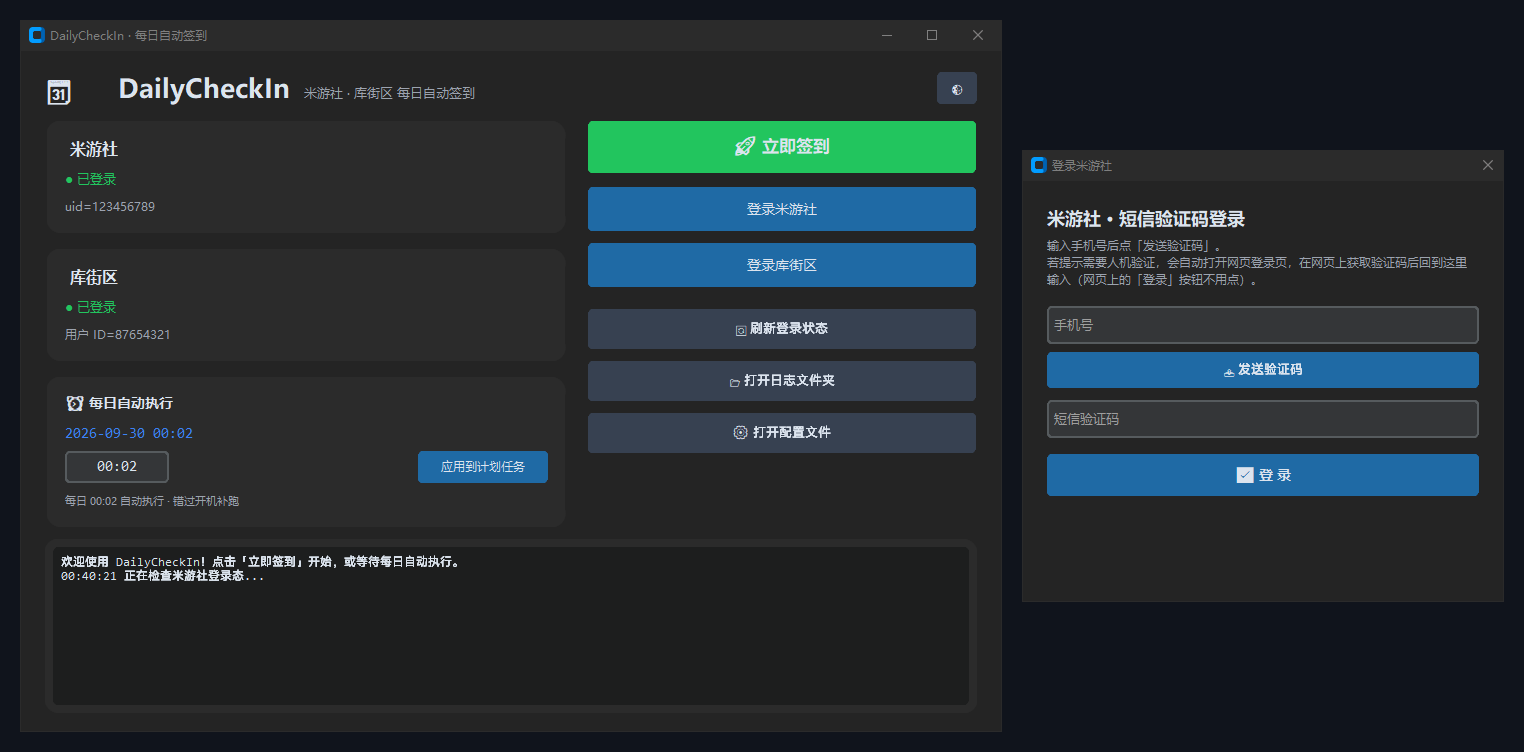
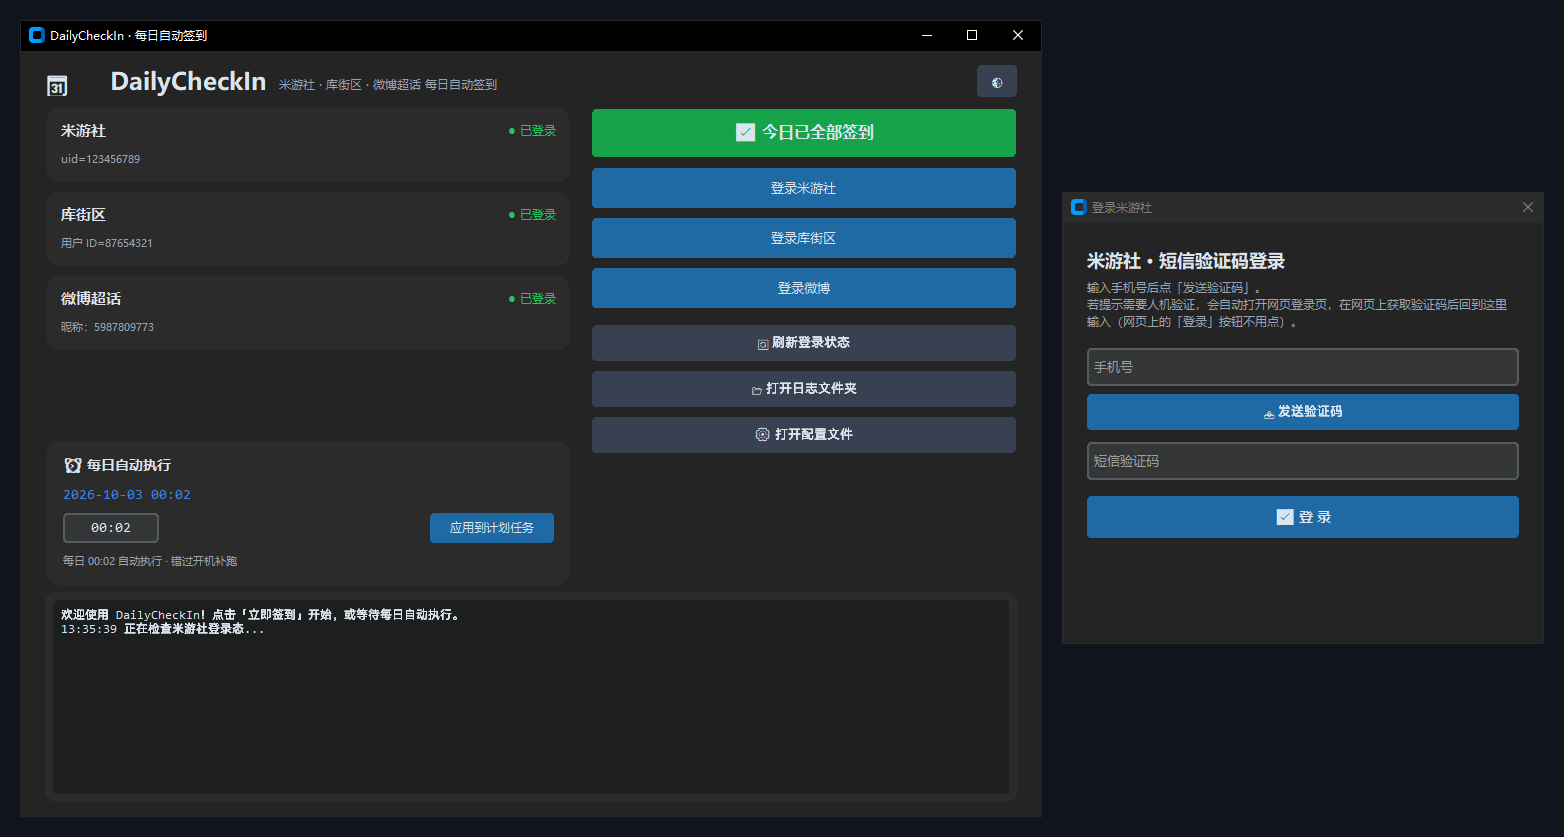
fix(gui): 重构布局，修复默认尺寸下日志区不可见
- 状态卡改紧凑单行式（标题+状态点同行），高度约减半
- 日志区固定 210px 高度，任何窗口尺寸下都完整可见
- 默认窗口加大到 1020x765，修复陈旧的网格行权重
- 同步更新 README 界面预览图

diff --git a/gui.py b/gui.py
@@ -277,8 +277,8 @@ class App(ctk.CTk):
     def __init__(self):
         super().__init__()
         self.title("DailyCheckIn · 每日自动签到")
-        self.geometry("980x680")
-        self.minsize(860, 600)
+        self.geometry("1020x765")
+        self.minsize(880, 700)
 
         self.log_queue = queue.Queue()
         self.ui_queue = queue.Queue()
@@ -312,12 +312,12 @@ class App(ctk.CTk):
 
     # ────────── 界面构建 ──────────
     def _build_header(self):
-        bar = ctk.CTkFrame(self, fg_color="transparent", height=70)
-        bar.pack(fill="x", padx=24, pady=(18, 6))
+        bar = ctk.CTkFrame(self, fg_color="transparent", height=56)
+        bar.pack(fill="x", padx=24, pady=(12, 4))
         ctk.CTkLabel(bar, text="🗓 DailyCheckIn",
-                     font=("Microsoft YaHei UI", 26, "bold")).pack(side="left")
-        ctk.CTkLabel(bar, text="米游社 · 库街区 每日自动签到",
-                     font=("Microsoft YaHei UI", 13), text_color=GRAY).pack(side="left", padx=14, pady=(10, 0))
+                     font=("Microsoft YaHei UI", 24, "bold")).pack(side="left")
+        ctk.CTkLabel(bar, text="米游社 · 库街区 · 微博超话 每日自动签到",
+                     font=("Microsoft YaHei UI", 12), text_color=GRAY).pack(side="left", padx=12, pady=(8, 0))
 
         self.theme_btn = ctk.CTkButton(bar, text="🌓", width=40, height=32,
                                        fg_color="#374151", hover_color="#4B5563",
@@ -325,19 +325,20 @@ class App(ctk.CTk):
                                            "light" if ctk.get_appearance_mode().lower() == "dark" else "dark"))
         self.theme_btn.pack(side="right")
 
-    def _card(self, parent, row, title, emoji, color):
-        card = ctk.CTkFrame(parent, corner_radius=14)
-        card.grid(row=row, column=0, sticky="ew", padx=2, pady=8)
+    def _card(self, parent, row, title, color):
+        """紧凑状态卡：标题与状态点同行，说明一行，整体约 80px 高"""
+        card = ctk.CTkFrame(parent, corner_radius=12)
+        card.grid(row=row, column=0, sticky="ew", padx=2, pady=5)
         card.grid_columnconfigure(0, weight=1)
-        ctk.CTkLabel(card, text=f"{emoji} {title}",
-                     font=("Microsoft YaHei UI", 16, "bold")).grid(
-            row=0, column=0, sticky="w", padx=18, pady=(14, 2))
-        dot = ctk.CTkLabel(card, text="● 检查中...", font=("Microsoft YaHei UI", 13),
+        top = ctk.CTkFrame(card, fg_color="transparent")
+        top.pack(fill="x", padx=14, pady=(9, 0))
+        ctk.CTkLabel(top, text=title, font=("Microsoft YaHei UI", 15, "bold")).pack(side="left")
+        dot = ctk.CTkLabel(top, text="● 检查中...", font=("Microsoft YaHei UI", 12),
                            text_color=GRAY)
-        dot.grid(row=1, column=0, sticky="w", padx=18)
-        sub = ctk.CTkLabel(card, text="", font=("Microsoft YaHei UI", 12),
-                           text_color=GRAY, wraplength=260, justify="left")
-        sub.grid(row=2, column=0, sticky="w", padx=18, pady=(0, 12))
+        dot.pack(side="right")
+        sub = ctk.CTkLabel(card, text="", font=("Microsoft YaHei UI", 11),
+                           text_color=GRAY, anchor="w")
+        sub.pack(fill="x", padx=14, pady=(0, 9))
         return {"dot": dot, "sub": sub, "color": color}
 
     def _build_body(self):
@@ -351,76 +352,76 @@ class App(ctk.CTk):
         left = ctk.CTkFrame(body, fg_color="transparent")
         left.grid(row=0, column=0, sticky="nsew", padx=(0, 10))
         left.grid_columnconfigure(0, weight=1)
-        left.grid_rowconfigure(2, weight=1)
+        left.grid_rowconfigure(3, weight=1)
 
-        self.mi_card = self._card(left, 0, "米游社", "", ACCENT)
-        self.kuro_card = self._card(left, 1, "库街区", "", GREEN)
-        self.wb_card = self._card(left, 2, "微博超话", "", AMBER)
+        self.mi_card = self._card(left, 0, "米游社", ACCENT)
+        self.kuro_card = self._card(left, 1, "库街区", GREEN)
+        self.wb_card = self._card(left, 2, "微博超话", AMBER)
 
         # 每日自动执行 + 时间设置
-        next_card = ctk.CTkFrame(left, corner_radius=14)
-        next_card.grid(row=3, column=0, sticky="sew", padx=2, pady=8)
+        next_card = ctk.CTkFrame(left, corner_radius=12)
+        next_card.grid(row=3, column=0, sticky="sew", padx=2, pady=5)
         ctk.CTkLabel(next_card, text="⏰ 每日自动执行",
-                     font=("Microsoft YaHei UI", 14, "bold")).pack(anchor="w", padx=18, pady=(12, 0))
+                     font=("Microsoft YaHei UI", 14, "bold")).pack(anchor="w", padx=16, pady=(10, 0))
         self.next_run_label = ctk.CTkLabel(next_card, text="查询中...",
-                                           font=("Consolas", 15), text_color=ACCENT)
-        self.next_run_label.pack(anchor="w", padx=18, pady=(2, 4))
+                                           font=("Consolas", 14), text_color=ACCENT)
+        self.next_run_label.pack(anchor="w", padx=16, pady=(2, 4))
 
         time_row = ctk.CTkFrame(next_card, fg_color="transparent")
-        time_row.pack(fill="x", padx=18, pady=(0, 4))
-        self.time_entry = ctk.CTkEntry(time_row, placeholder_text="00:02", width=104,
-                                       height=32, justify="center", font=("Consolas", 15))
+        time_row.pack(fill="x", padx=16, pady=(0, 4))
+        self.time_entry = ctk.CTkEntry(time_row, placeholder_text="00:02", width=96,
+                                       height=30, justify="center", font=("Consolas", 14))
         self.time_entry.pack(side="left")
-        self.sched_btn = ctk.CTkButton(time_row, text="应用到计划任务", width=130, height=32,
+        self.sched_btn = ctk.CTkButton(time_row, text="应用到计划任务", width=124, height=30,
                                        font=("Microsoft YaHei UI", 12),
                                        command=self.apply_schedule)
         self.sched_btn.pack(side="right")
 
         self.sched_note = ctk.CTkLabel(next_card, text="错过自动补跑 · 签到幂等不重复领取",
                                        font=("Microsoft YaHei UI", 11), text_color=GRAY)
-        self.sched_note.pack(anchor="w", padx=18, pady=(0, 12))
+        self.sched_note.pack(anchor="w", padx=16, pady=(0, 10))
 
         # 右列：操作按钮
         right = ctk.CTkFrame(body, fg_color="transparent")
         right.grid(row=0, column=1, sticky="nsew", padx=(10, 0))
         right.grid_columnconfigure(0, weight=1)
 
-        self.run_btn = ctk.CTkButton(right, text="🚀 立即签到", height=52,
-                                     font=("Microsoft YaHei UI", 17, "bold"),
+        self.run_btn = ctk.CTkButton(right, text="🚀 立即签到", height=48,
+                                     font=("Microsoft YaHei UI", 16, "bold"),
                                      fg_color=GREEN, hover_color="#16A34A",
                                      command=self.start_checkin)
-        self.run_btn.grid(row=0, column=0, sticky="ew", pady=8)
+        self.run_btn.grid(row=0, column=0, sticky="ew", pady=6)
 
-        ctk.CTkButton(right, text="登录米游社", height=44,
-                      font=("Microsoft YaHei UI", 14),
+        ctk.CTkButton(right, text="登录米游社", height=40,
+                      font=("Microsoft YaHei UI", 13),
                       command=lambda: SMSLoginDialog(self, self, "mihoyo")).grid(
-            row=1, column=0, sticky="ew", pady=6)
-        ctk.CTkButton(right, text="登录库街区", height=44,
-                      font=("Microsoft YaHei UI", 14),
+            row=1, column=0, sticky="ew", pady=5)
+        ctk.CTkButton(right, text="登录库街区", height=40,
+                      font=("Microsoft YaHei UI", 13),
                       command=lambda: SMSLoginDialog(self, self, "kuro")).grid(
-            row=2, column=0, sticky="ew", pady=6)
-        ctk.CTkButton(right, text="登录微博", height=44,
-                      font=("Microsoft YaHei UI", 14),
+            row=2, column=0, sticky="ew", pady=5)
+        ctk.CTkButton(right, text="登录微博", height=40,
+                      font=("Microsoft YaHei UI", 13),
                       command=lambda: WeiboLoginDialog(self, self)).grid(
-            row=3, column=0, sticky="ew", pady=6)
+            row=3, column=0, sticky="ew", pady=5)
 
-        ctk.CTkButton(right, text="🔄 刷新登录状态", height=40,
+        ctk.CTkButton(right, text="🔄 刷新登录状态", height=36,
                       fg_color="#374151", hover_color="#4B5563",
-                      command=self.refresh_status).grid(row=4, column=0, sticky="ew", pady=(16, 6))
-        ctk.CTkButton(right, text="📂 打开日志文件夹", height=40,
+                      command=self.refresh_status).grid(row=4, column=0, sticky="ew", pady=(12, 5))
+        ctk.CTkButton(right, text="📂 打开日志文件夹", height=36,
                       fg_color="#374151", hover_color="#4B5563",
-                      command=lambda: self._open(LOG_DIR)).grid(row=5, column=0, sticky="ew", pady=6)
-        ctk.CTkButton(right, text="⚙ 打开配置文件", height=40,
+                      command=lambda: self._open(LOG_DIR)).grid(row=5, column=0, sticky="ew", pady=5)
+        ctk.CTkButton(right, text="⚙ 打开配置文件", height=36,
                       fg_color="#374151", hover_color="#4B5563",
-                      command=lambda: self._open(CONFIG_FILE)).grid(row=6, column=0, sticky="ew", pady=6)
+                      command=lambda: self._open(CONFIG_FILE)).grid(row=6, column=0, sticky="ew", pady=5)
 
         right.grid_rowconfigure(7, weight=1)
 
     def _build_log(self):
-        log_frame = ctk.CTkFrame(self, corner_radius=14)
-        log_frame.pack(fill="both", padx=24, pady=(4, 18))
-        self.log_box = ctk.CTkTextbox(log_frame, font=("Consolas", 12), wrap="word",
-                                      activate_scrollbars=True)
+        log_frame = ctk.CTkFrame(self, corner_radius=12, height=210)
+        log_frame.pack(fill="x", padx=24, pady=(2, 14))
+        log_frame.pack_propagate(False)   # 日志区固定高度，任何窗口尺寸下都可见
+        self.log_box = ctk.CTkTextbox(log_frame, font=("Consolas", 12), wrap="word")
         self.log_box.pack(fill="both", expand=True, padx=8, pady=8)
         self.log_box.insert("end", "欢迎使用 DailyCheckIn！点击「立即签到」开始，或等待每日自动执行。\n")
         self.log_box.configure(state="disabled")
